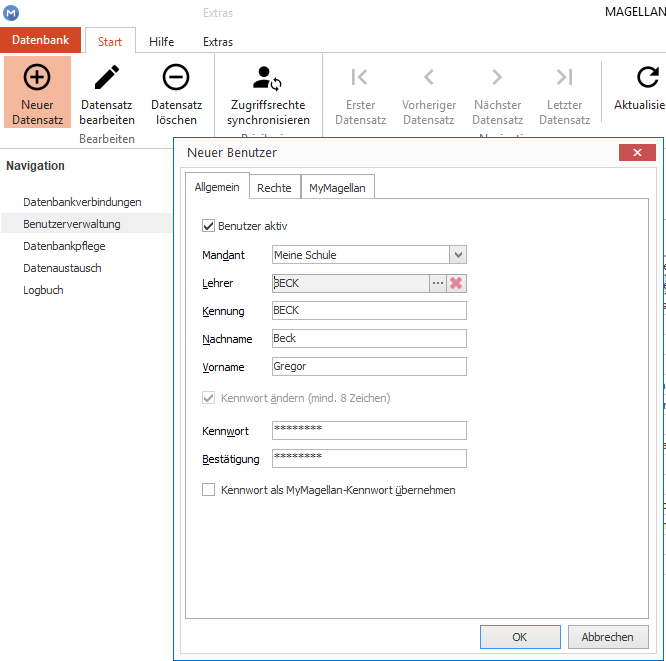
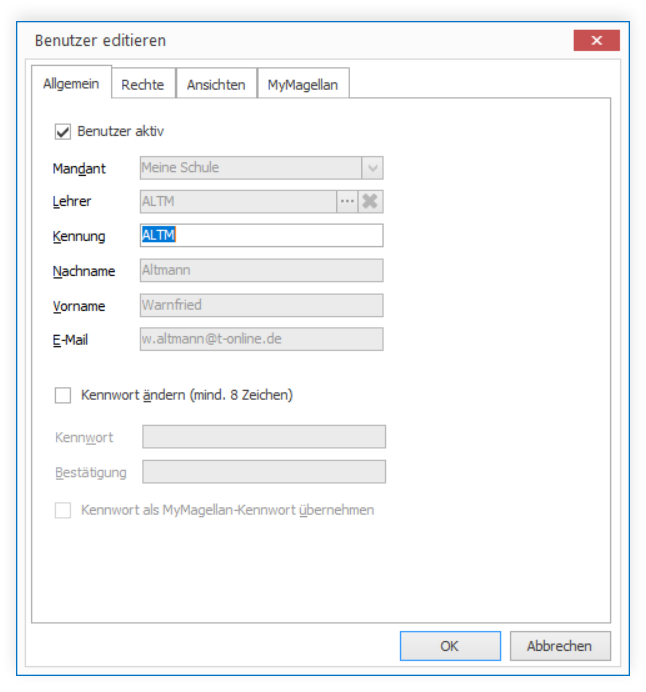
no message

Changed region(s): [[0.0, 0.0, 1.0, 1.0], [0.6811, 0.6354, 0.7121, 0.6657]]

diff --git a/docs/schulverwaltung/admin/users.md b/docs/schulverwaltung/admin/users.md
@@ -14,7 +14,7 @@ Die Benutzerverwaltung ist das Werkzeug des Administrators, um:
 
 ## "sysdba" und "dbadmin"
 
-Standardmäßig sind die Benutzer mit der Kennung "SYSDBA" und "DBADMIN" in der Datenbank hinterlegt. Beide haben die Kennung "masterkey".
+Standardmäßig sind die Benutzer mit der Kennung "SYSDBA" und "DBADMIN" in der Datenbank hinterlegt. Beide haben bis zur Version MAGELLAN 9 in einer neuen Installation das Passwort "masterkey", ab MAGELLAN 10 und Firebird 4 gilt dann das Passwort, dass Sie bei der Installation von Firebird festgelegt haben.
 Mit diesen Standardkennung sind volle Administrationsrechte verbunden mit folgendem Unterschied:
 
 Der Firebird-Datenbankserver kennt zwei Administratoren Benutzer, "SYSDBA" und "DBADMIN"
@@ -26,7 +26,7 @@ Durch diesen erhalten Sie für die "MAGELLAN.FDB" (oder auch mehrere Datenbanken
 
 ## Registerkarte „Benutzerliste“
 
-In der Benutzerliste ist jeder Benutzer ist durch seine Kennung, den Nachnamen, Vornamen, sein Lehrerkürzel (optional), seinen Mandanten, sein Kennwort und seinen Status definiert. Für jeden Benutzer können Sie seine Rechte in der Schulverwaltung, Bibliotheks & Lernmittel, Inventarisierung und für MYMAGELLAN, die dezentrale Notenverwaltung, festlegen.
+In der Benutzerliste ist jeder Benutzer ist durch seine Kennung, den Nachnamen, Vornamen, sein Lehrerkürzel (optional), seinen Mandanten, sein Kennwort und seinen Status definiert. Für jeden Benutzer können Sie seine Rechte in der Schulverwaltung, Bibliotheks & Lernmittel und für MYMAGELLAN, die dezentrale Notenverwaltung, festlegen.
 
 Einen neuen Benutzer können Sie über die Schaltfläche `Hinzufügen` anlegen, einen bestehenden durch Doppelklick auf den Benutzer auf der Karte „MAGELLAN Benutzerliste“ bearbeiten. Für bereits angelegte Benutzer können Rechte exportiert, angepasst und wieder importiert werden. Zum Beispiel, um einer Gruppe von Benutzer schnell und einfach ein neues Recht zu zuweisen oder den Teilnehmern am MYMAGELLAN-Verfahren einen neuen Ablagepfad für die mym-Datei zu hinterlegen.
 
@@ -87,6 +87,7 @@ Mandant|Ist in Ihrer Datenbank nur ein Mandant, wird automatisch dieser Mandant 
 Lehrer|Ist ein Mandant ausgewählt, wird die Lehrerliste gefüllt. Für Kollegiumsrechte ist es notwendig auf einen Lehrer in der Datenbank zu verweisen. MAGELLAN benötigt diese Information um zum Beispiel die Schüler des Lehrers identifizieren zu können (mit Kollegiumsrechten kann man z.B. nur Zeugnisnoten für eigene Schüler einpflegen), oder auch um die eigene Lehrerzeile im Menü Lehrer einzublenden. Für Benutzer denen andere Rechtegruppen (z.B. Sekretariatsrechte)zugewiesen werden sollen, muss nicht nichts gewählt werden.
 Nachname|Ist im Feld Lehrer ein Datensatz gewählt worden, wird das Feld automatisch befüllt, anderenfalls tippen Sie hier bitte den Nachnamen ein.
 Vorname|Ist im Feld Lehrer ein Datensatz gewählt worden, wird das Feld automatisch befüllt, anderenfalls tippen Sie hier bitte den Vornamen ein.
+E-Mail| Für Benutzer, die keinem Lehrerdatensatz aus MAGELLAN zugeordnet wurden, kann das Feld editiert werden. Für Benutzer, die in MAGELLAN einem Lehrer zugewiesen sind, wird hier die Adresse aus `Lehrer > Daten1 > E-Mail` gezeigt. Die Adresse kann für Umsteiger von Version 9 auf eine höhere Version über einen Assistenten unter `Extras > E-Mail übernehmen` übertragen werden. Wird im Anschluss die Adresse in MAGELLAN verändert, aktualisiert sich die Adresse auf für den verbundenen Benutzer. Die Einträge der E-Mail-Adresse können Sie für alle Benutzer in der Liste der Benutzerverwaltung sehen.
 Kennwort ändern|Mit Hilfe dieses Häkchens können Sie für bereits angelegte Benutzer ein neues 8-stelliges Passwort vergeben.
 Kennwort|Bitte vergeben Sie ein 8-stelliges Passwort, bitte verzichten Sie auf Umlaute oder ß.
 Bestätigung|Tragen Sie zur Bestätigung bitte das Passwort erneut ein.
@@ -155,6 +156,30 @@ Die Benutzer können ihr Passwort in MAGELLAN unter `Datenbank > Kennwort änder
 Alle Angaben der Benutzer zu MYMAGELLAN werden aus Gründen der Übersichtlichkeit unter dem Reiter `MYMAGELLAN` aufgelistet. Markieren Sie einen der Benutzer, werden für ihn im unteren Bereich zusätzlich die MAGELLAN-Rechte eingeblendet.
 
 ![Hier sehen Sie eine Übersichtsliste alle Teilnehmer von MYMAGELLAN.](/assets/images/magellan.administrator/users_mymag.liste.png)
+
+## Passworte gesammelt vergeben und E-Mail-Adressen
+
+### E-Mail-Adressen
+
+Ab Version 10 kann je Benutzerkonto eine E-Mail-Adresse gespeichert werden. Für Benutzer, die mit einem Lehrerdatensatz aus MAGELLAN verknüpft sind, ist die Adresse nicht frei eingebbar, es wird der Eintrag aus `Lehrer > Daten 1 > E-Mail` verwendet.
+Für neu angelegte Benutzer wird diese Adresse automatisch übernommen, für bestehende Benutzer kann die Adresse mit dem Assistenten unter `Extras > E-Mail übernehmen` übertragen werden. Ist die Adresse für den Benutzer einmalig übertragen worden, wird auch jede Änderung der Adresse in MAGELLAN übertragen.
+
+![`Extras > E-Mail übernehmen`](/assets/images/magellan.administrator/010.png)
+
+Für Benutzer, die keinem Lehrer in MAGELLAN zugewiesen sind, kann manuell eine E-Mail-Adresse hinterlegt werden. Sie können das E-Mail-Feld unter `Benutzerverwaltung > Doppelklick auf den Benutzer > Allgemein` editieren. Für Benutzer, die einem Lehrerdatensatz zugewiesen sind, ist das Feld nicht auf diesem Weg editierbar.
+
+Alle Einträge sehen Sie in der Benutzerliste in der Spalte `E-Mail`. 
+
+![Spalte E-Mail in der Liste der Benutzer](/assets/images/magellan.administrator/011.png)
+
+## Kennworte erzeugen
+
+Sie können einer Gruppe von in der Liste der Benutzerverwaltung markierten Benutzern mit dem Assistenten unter `Extras > Kennwörter erzeugen` gesammelt ein neues Kennwort zuweisen.
+Der Assistent erwartet die Eingabe eines Speicherorts und eines Dateinamens für eine CSV-Datei, die im Moment des Erzeugens der neuen Kennworte, dieses in die Datei speichert. Zusätzlich wird die Kennung des Nutzers und, wenn vorhanden, die E-Mail-Adresse des Nutzers in die Datei gespielt. Diese Datei kann als Grundlage für die Verteilung der Zugangsdaten verwendet werden.
+Ein erneuter Durchlauf des Assistenten erzeugt neue Kennworte, sollte ein Nutzer sein Kennwort nicht zur Hand haben, gibt es nicht die Möglichkeit das alte Kennwort erneut zu erzeugen, es kann nur ein neues Kennwort erzeugt werden.
+Wenn ein Nutzer sich mit dem neuen Kennwort an MAGELLAN anmeldet, kann er unter `Datenbank > Kennwort ändern` ein eigenes Kennwort vergeben. 
+
+![`Extras > Kennwörter erzeugen`](/assets/images/magellan.administrator/009.png)
 
 ## Benutzer duplizieren
 

diff --git a/docs/schulverwaltung/admin/datenbankpflege.md b/docs/schulverwaltung/admin/datenbankpflege.md
@@ -53,7 +53,7 @@ Kopiert MAGELLAN-Daten in eine andere MAGELLAN-Datenbank zur Datenübernahme ein
 Setzt für Schüler, Bewerber, Lehrer und Personen, denen noch keine Anrede hinterlegt wurde, eine Anrede anhand des erfassten Geschlechts.
 Dabei wird aus dem Geschlecht weiblich die Anrede Frau und aus dem Geschlecht männlich die Anrede Herr befüllt.
 
-## Organisiertes Löschen
+## Schülerdaten Löschen
 
 Starten Sie den Assistenten unter Datenbankpflege per Doppelklick auf den nachstehend gelb markierten Bereich.
 
@@ -93,7 +93,23 @@ Für unser Beispiel sieht man in der nachstehenden Abbildung auf der linken Seit
 Wechseln Sie mit `Weiter` auf die nächste Karte und klicken Sie auf `Sichern`. Bevor Ihre Aktion ausgeführt wird, muss eine Sicherung der Datenbank auf dem Stand vor Ihrer Änderung erstellt werden. Der Assistent liest Ihre Einstellungen zur Datensicherung aus den Verbindungseinstellungen aus, erstellt die Sicherung und speichert sie.
 Es wird parallel zur Datenbanksicherung auch eine Excelliste mit den Schülerdatensätzen zur Nachkontrolle erzeugt. Die Ablagestelle für die Sicherung der Datenbank und die Protokolllisten ergeben sich aus Ihren Eintragungen in der Verbindung zur Datenbank.
 
-
 [![Sicherung erstellen][5]][5]
 
 Wechseln Sie mit `Weiter` auf die nächste Karte und klicken auf `Fertigstellen`, Ihre gewählte Option löscht die Passbilder, Fachdaten oder die Schülerdatensätze aus Ihrer Datenbank.
+
+## Sorgeberechtigte inaktiv setzen
+
+![Sorgeberechtigte inaktiv setzen](/assets/images/magellan.administrator/012.png)
+
+Beim Ausschulen von Schülern, gibt es die Möglichkeit parallel die Sorgeberechtigten zu inaktivieren. MAGELLAN prüft, ob es noch aktive Geschwisterkinder gibt und wenn nicht, wird der Status des Sorgeberechtigten auf inaktiv gesetzt. Damit haben Sie die Übersicht innerhalb des Menüs `Sorgeberechtigte`, ob die Datensätze noch mit aktiven Schülerdatensätzen verbunden sind oder nicht. Davon ausgehend können auch Sorgeberechtigten-Datensätze in der Liste gefiltert oder auch ggfs. gelöscht werden.
+Sollte das Häkchen beim Ausschulen nicht konsequent genutzt worden sein oder fehlt der Status durch einen Import, können Sie mit dieser Funktion die Daten nachträglich überprüfen lassen.
+Im ersten Schritt empfehlen wir in MAGELLAN alle Sorgeberechtigten-Datensätze zu aktivieren. Sie markieren dazu alle Zeilen im Menü `Sorgeberechtigte` mit bspsw. mit `STRG+A` und wählen `Rechtsklick > Status zuweisen > neuer Status > aktiver Sorgeberechtigter`.
+Anschließend nutzen Sie den Assistenten im MAGELLAN Administrator und wählen einen Mandanten und einen Zeitraum, von dem ausgehend geprüft werden soll. 
+
+![Assistent](/assets/images/magellan.administrator/013.png)
+
+Dieser Assistent setzt für alle Sorgeberechtigten den Status auf `inaktiver Sorgeberechtigen`, die folgende Bedingung erfüllen:
+
+* kein Bewerber wurde zugeordnet
+* kein Vagabund ist zugeordnet
+* kein aktiver Schüler ist zugeordnet
